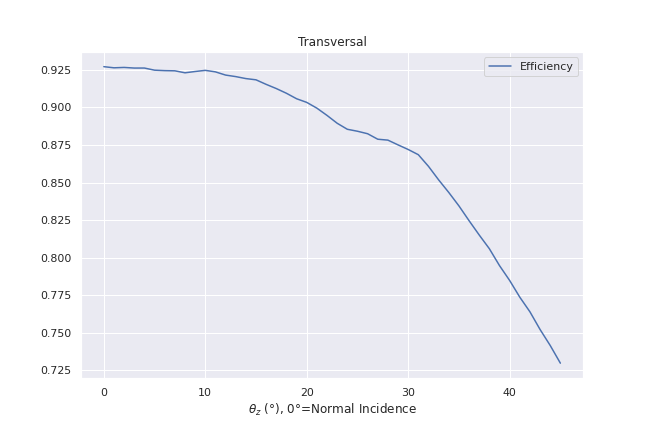
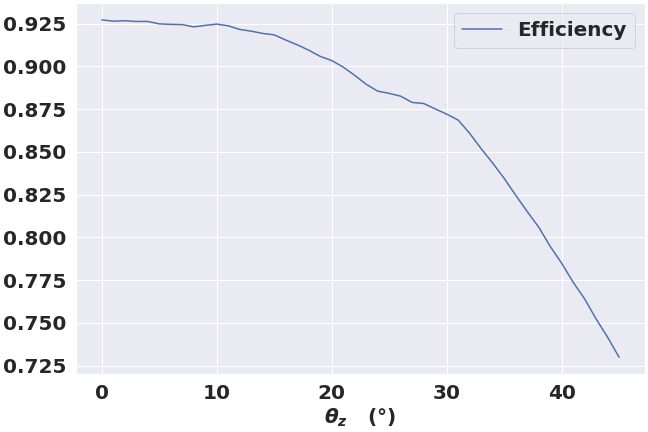
Added rc params

diff --git a/analysis.py b/analysis.py
@@ -9,6 +9,21 @@ import utils
 
 sns.set_theme()
 
+params = {'figure.figsize': (14, 4),
+          'axes.titlesize': 20,
+          'axes.titleweight': 'bold',
+          'axes.labelsize': 20,
+          'axes.labelweight': 'bold',
+          'xtick.labelsize': 20,
+          'ytick.labelsize': 20,
+          'font.weight' : 'bold',
+          'font.size': 20,
+          'legend.fontsize': 20,
+          # 'savefig.dpi': 300.0,
+          # 'savefig.format': 'tiff',
+          'figure.constrained_layout.use': True}
+plt.rcParams.update(params)
+
 def plot_quantity_dfs(df_list, quantity="efficiency"):
     """ Plots a column of each dataframe """
     fig, ax = plt.subplots(figsize=(9,6))
@@ -54,7 +69,7 @@ ideal_ln_df_list = [reader.read(ln) for ln in ideal_longitudinal_traces]
 # for ln in ideal_longitudinal_traces:
 #     plot_heatmap(ln)
 
-df = ideal_ln_df_list[0]
+df = ideal_tr_df_list[0]
 df["intercept_factor"] = df["absorbed_flux"]/ (df["potential_flux"] * df["cos_factor"])
 # Used to confirm absorbed calculation
 # df["calculated_absorbed"] = df["potential_flux"]*df["cos_factor"] - \
@@ -71,10 +86,9 @@ def plot_columns_list(df, columns_list):
     fig, ax = plt.subplots(figsize=(9,6))
     for col in columns_list:        
         ax.plot(df[col], label=col.title().replace("_"," "))
-    ax.set_xlabel(df.xlabel)
+    ax.set_xlabel("$\\theta_z \quad  (\degree)$")
     if contains_flux_or_losses(columns_list):
         ax.set_ylabel("Watts")
-    ax.set_title(df.title)
     ax.legend()
     plt.savefig(pic_path)
     plt.show()
@@ -82,7 +96,7 @@ def plot_columns_list(df, columns_list):
 plot_columns_list(df, ["intercept_factor", "efficiency"])
 
 
-# for i in df.columns:
-#     plot_columns_list(df, [i])
+for i in df.columns:
+    plot_columns_list(df, [i])
 
 
